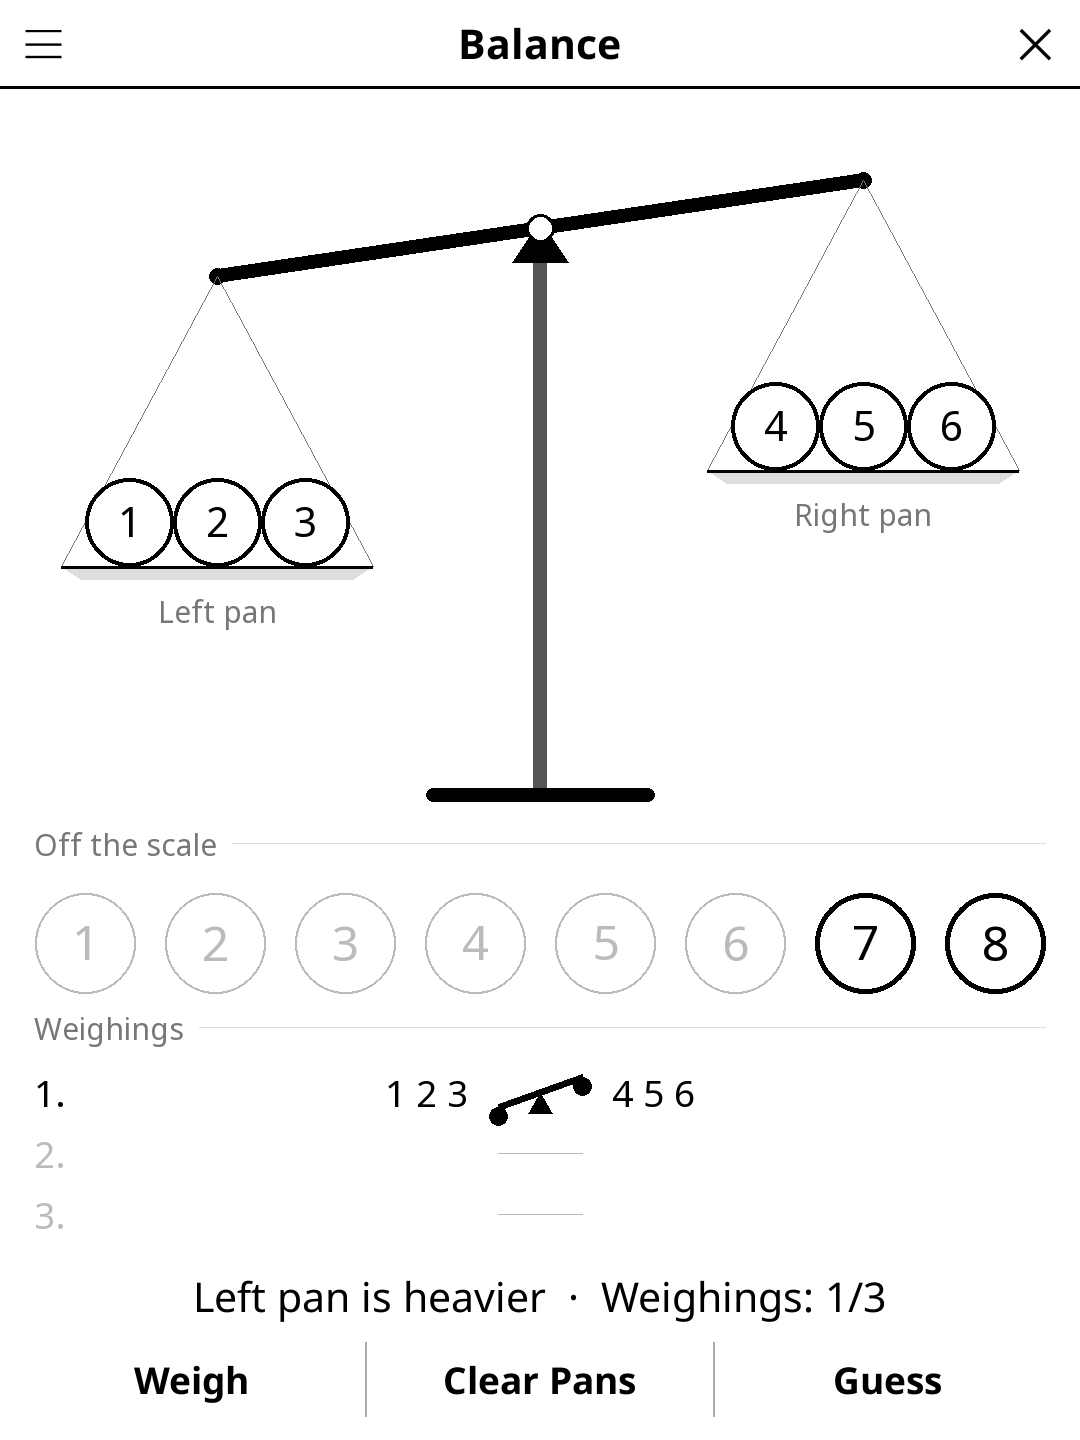
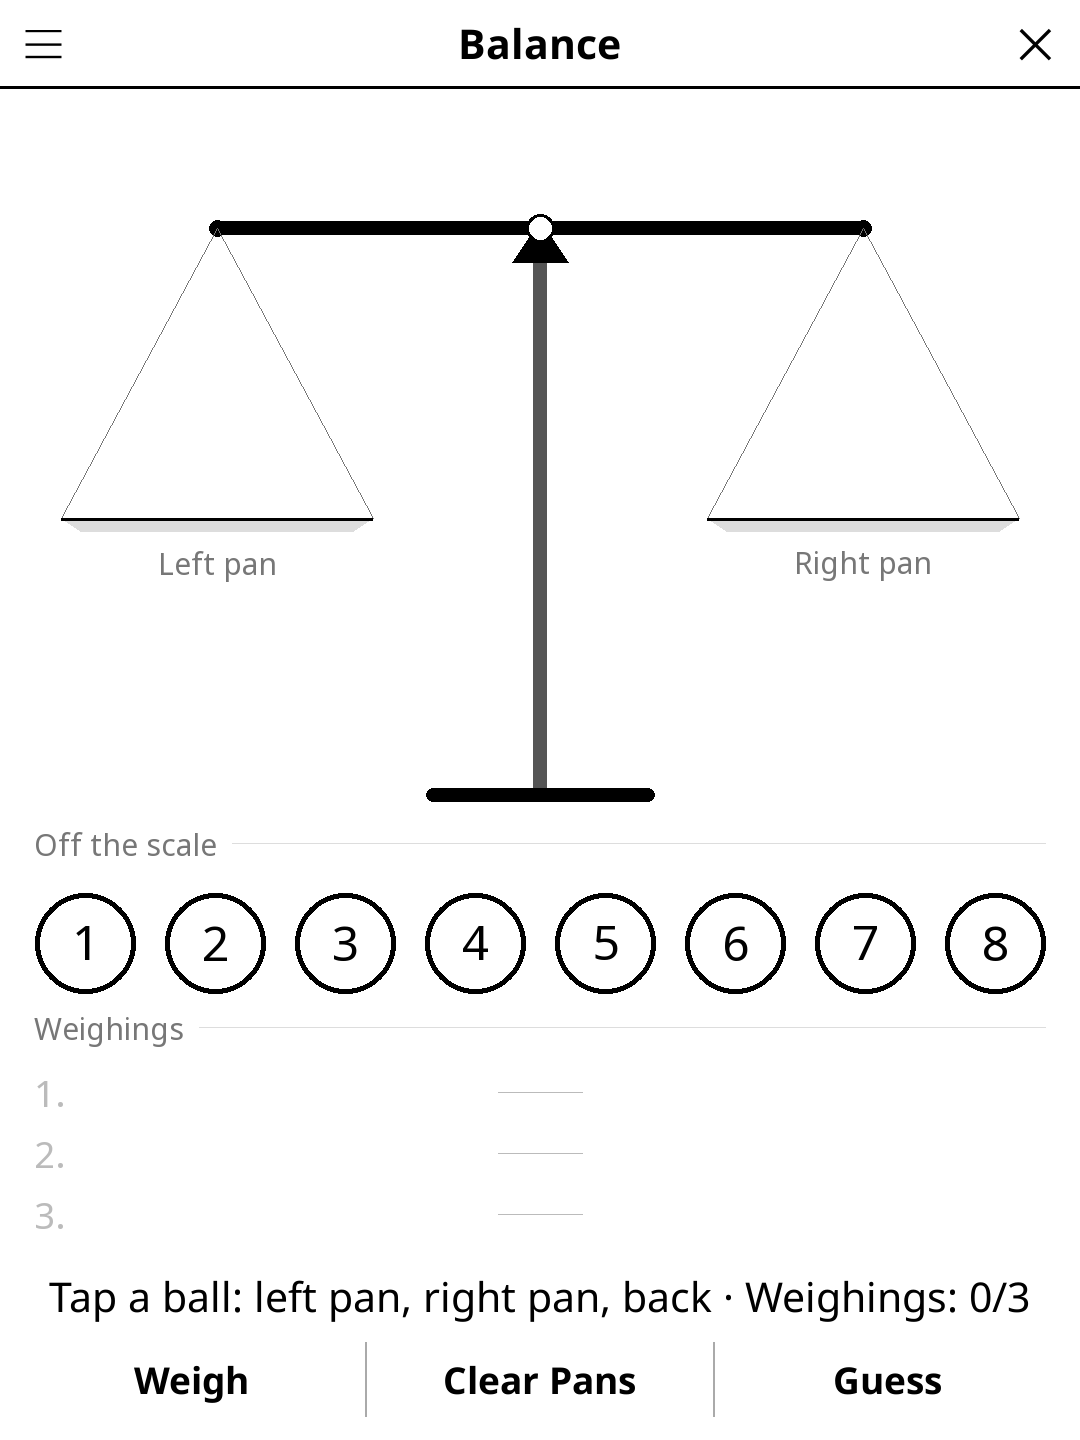
release: 1.3.0 -- redesigned screen, harmonised menu, New game at round end
Screen redesign (full-width action bar, unified pad, status line, larger
board), harmonised title-bar menu, and a "New game" button once the round
is over. See CHANGELOG.md.

diff --git a/CHANGELOG.md b/CHANGELOG.md
@@ -6,6 +6,20 @@ Reconstructed from this repository's git history: each release lists the
 feature and fix commits it carried. Version bumps, screenshot additions
 and CI syncs are left out.
 
+## [1.3.0] - 2026-10-30
+
+### Changed
+- The board and controls use the shared layout: a full-width action bar, the
+  scale filling the room it leaves, and a status line that wraps in landscape
+  instead of being cut off.
+- The difficulty entry in the title-bar menu reads "Difficulty: Easy".
+- Once the game is won or lost, the action bar shows "New game" in place of
+  Weigh / Clear Pans / Guess.
+
+### Fixed
+- The difficulty names (in the menu and in the "Easy (6 balls, 2 weighings)"
+  picker) were always English: they are now translated.
+
 ## [1.2.0] - 2026-10-29
 
 ### Changed
